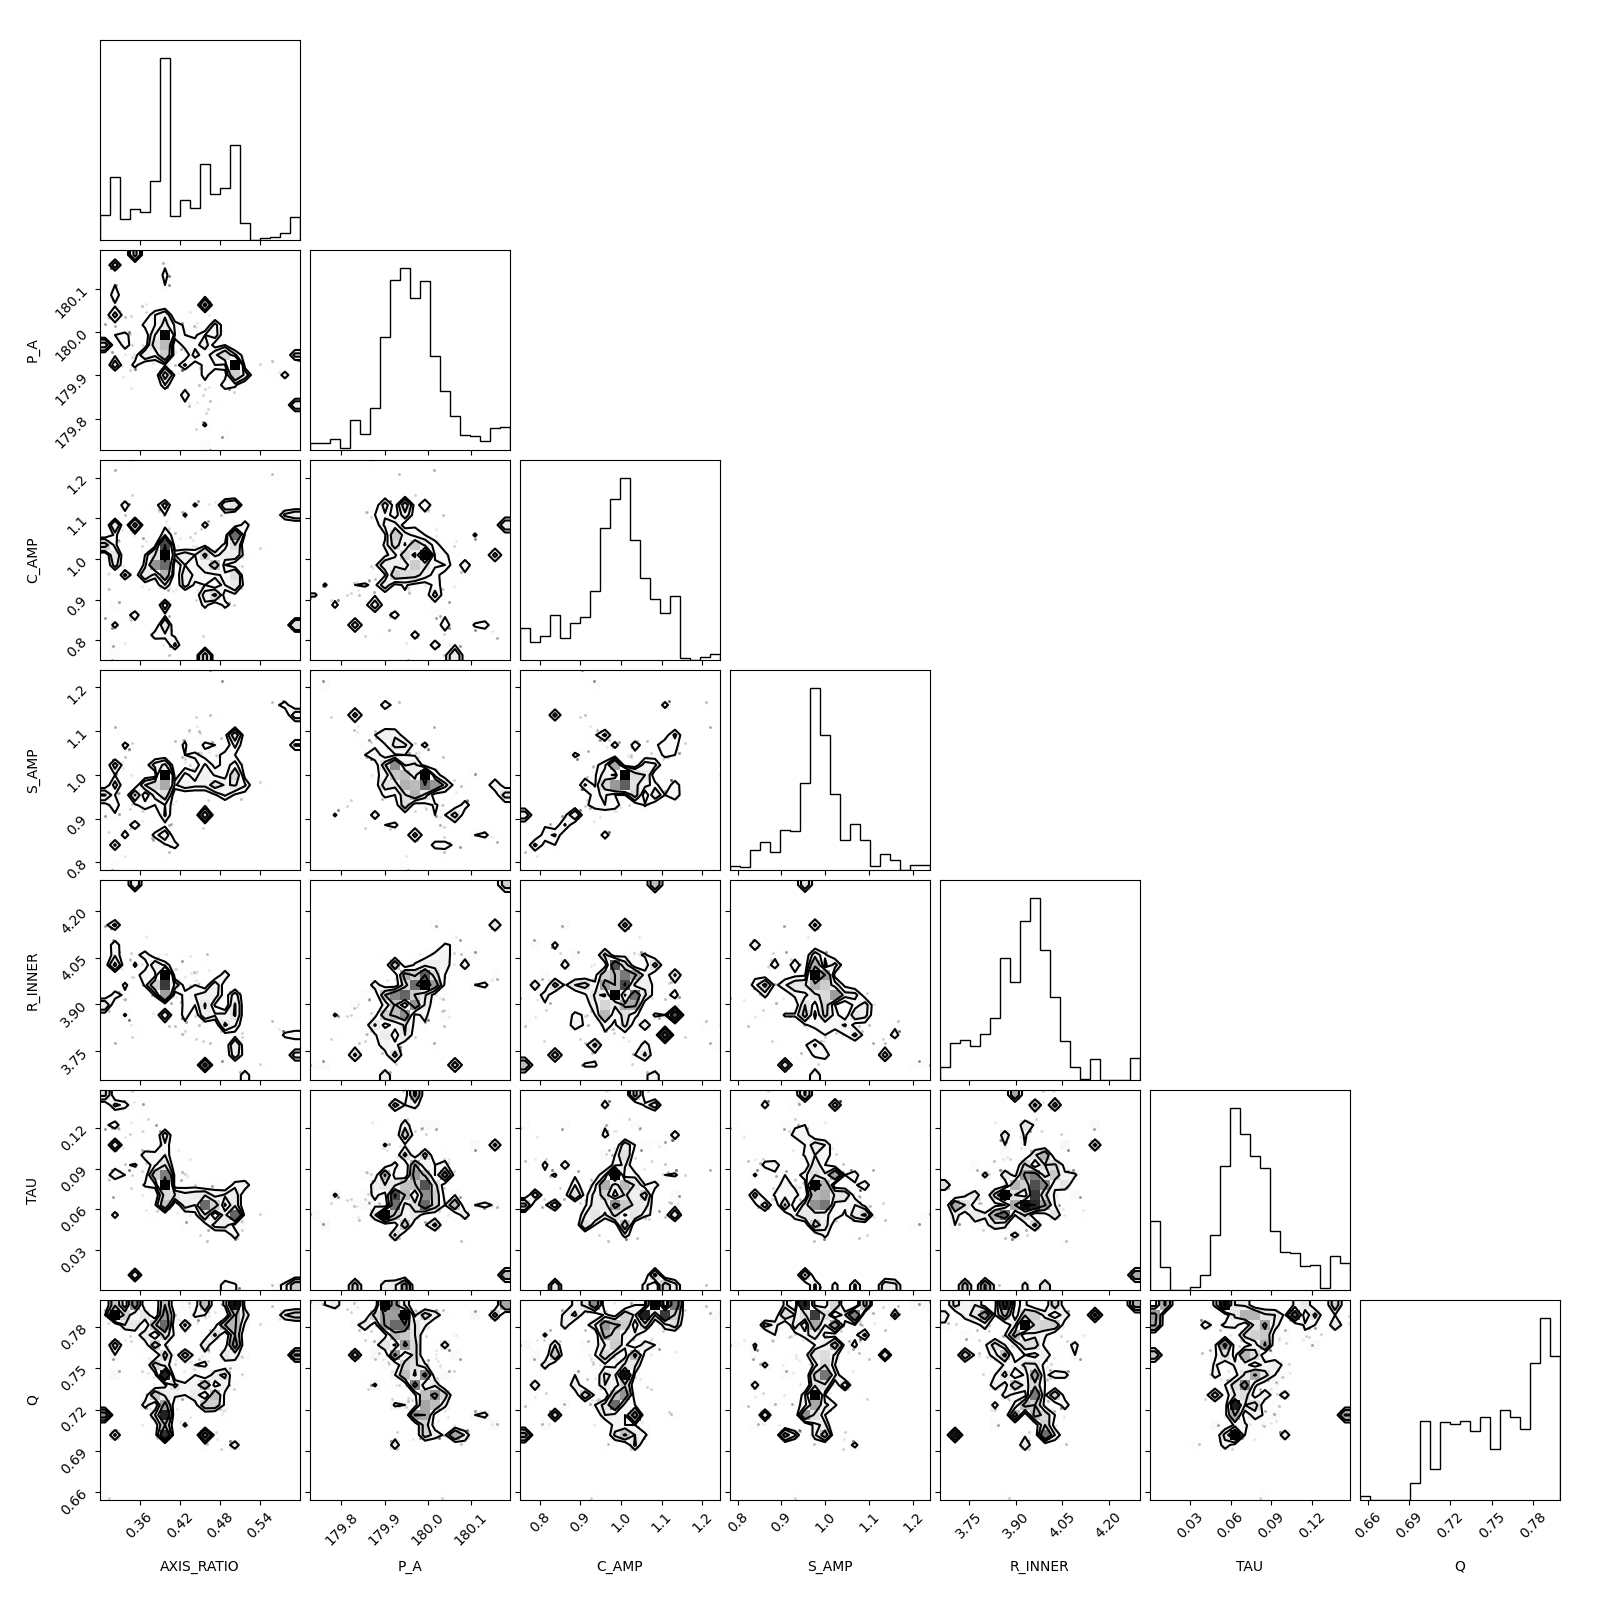
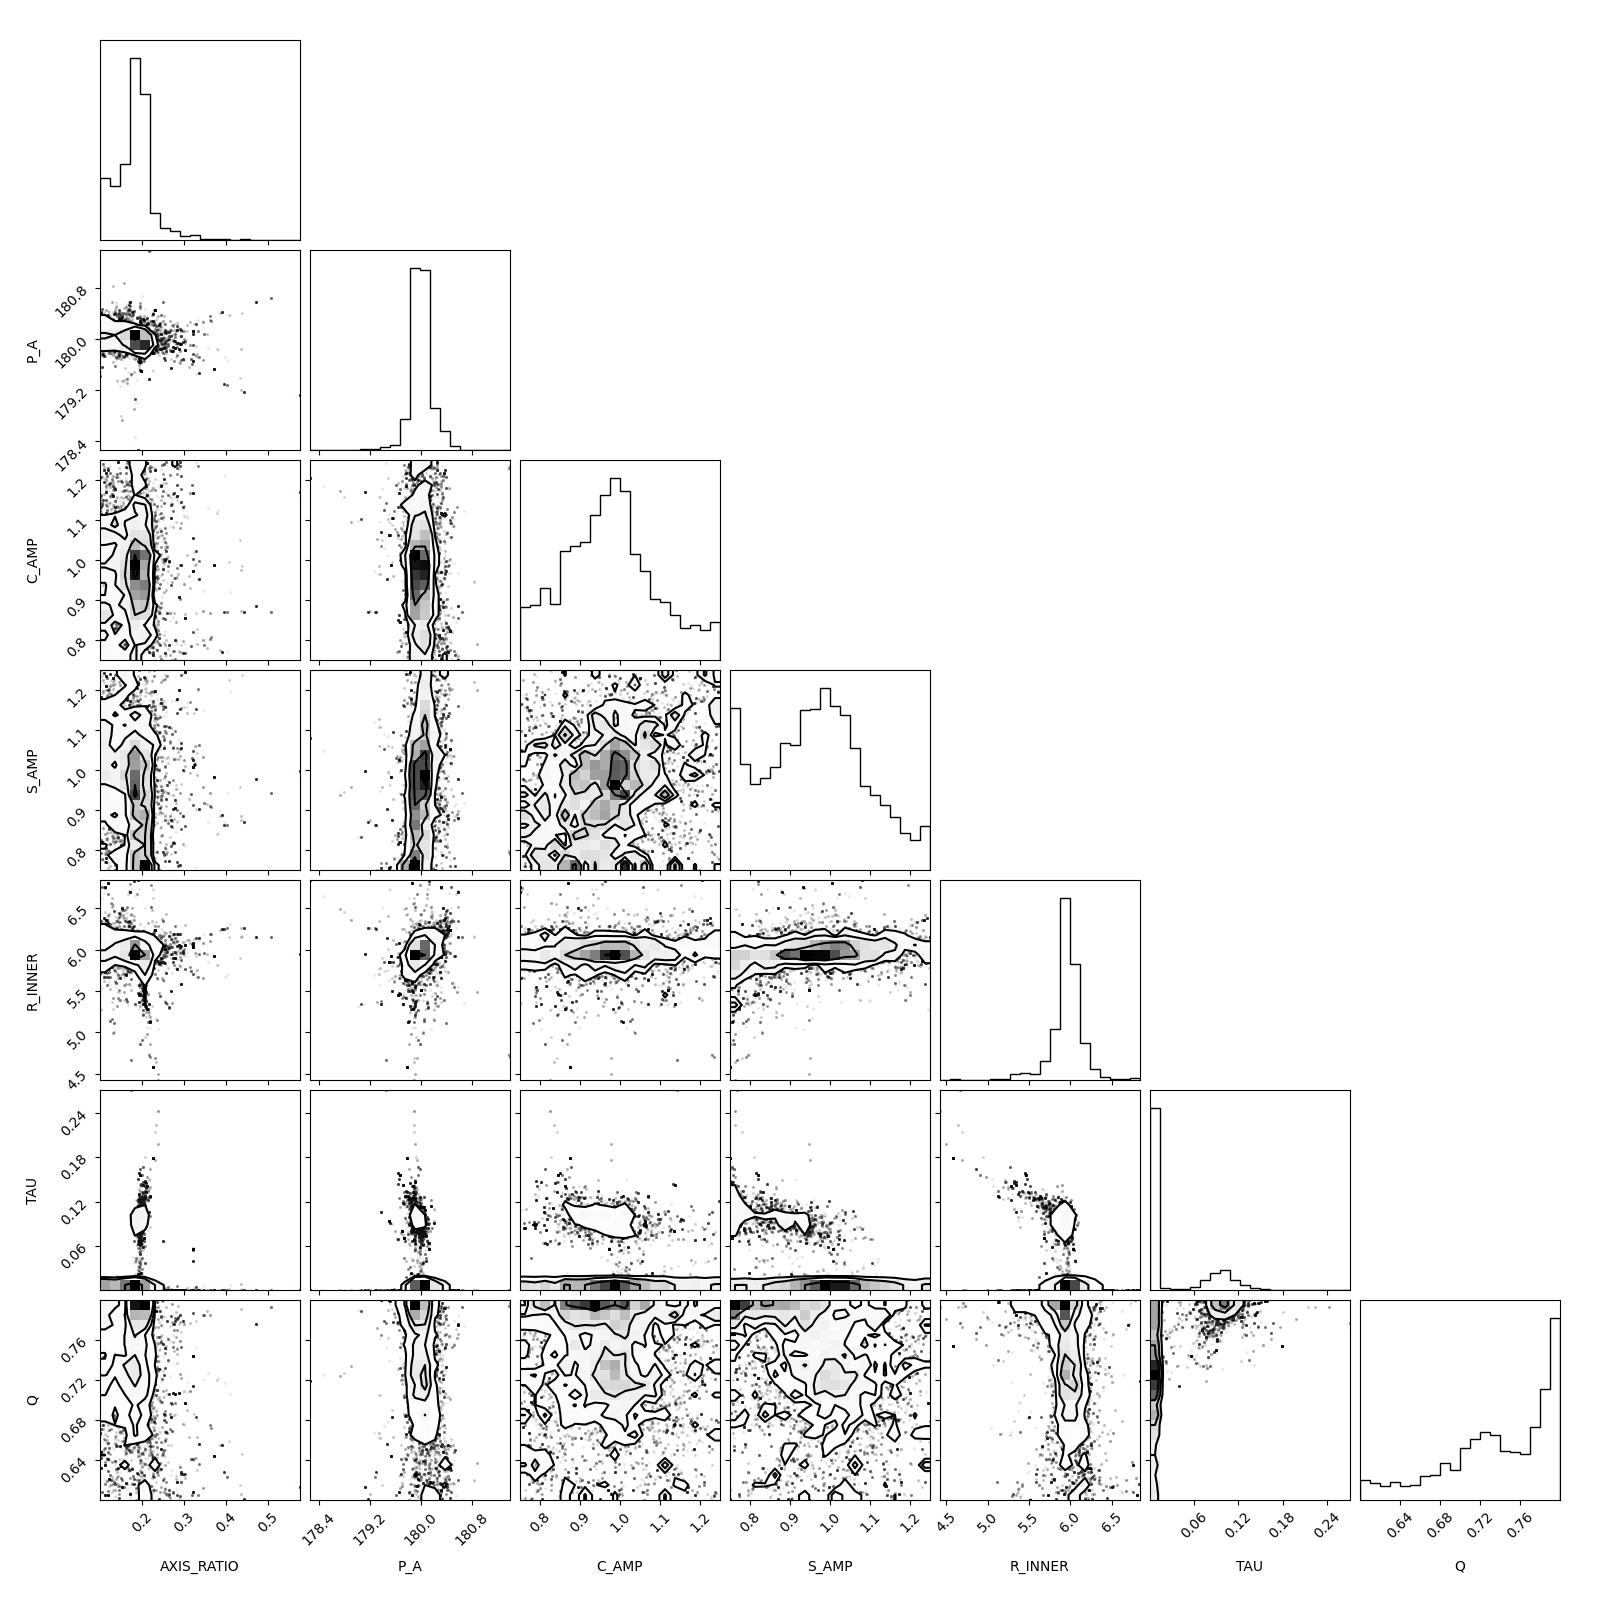
New fit

diff --git a/ppdmodler/src/functionality/mcmc.py b/ppdmodler/src/functionality/mcmc.py
@@ -443,8 +443,8 @@ if __name__ == "__main__":
     # TODO: make the code work for the compound model make the compound model
     # work
     # Initial sets the theta
-    initial = np.array([0.4, 180, 1., 1., 4.,  0.1, 0.7])
-    priors = [[0.3, 0.6], [178, 182], [0.75, 1.25], [0.75, 1.25], [3., 6.], [0., 1.], [0.6, 0.8]]
+    initial = np.array([0.2, 180, 1., 1., 6.,  0.05, 0.7])
+    priors = [[0.1, 1.], [0, 360], [0.75, 1.25], [0.75, 1.25], [3., 10.], [0., 1.], [0.6, 0.8]]
     labels = ["AXIS_RATIO", "P_A", "C_AMP", "S_AMP", "R_INNER", "TAU", "Q"]
     bb_params = [1500, 7900, 19, 140]
 
@@ -455,11 +455,11 @@ if __name__ == "__main__":
 
     # Set the data, the wavelength has to be the fourth argument [3]
     data = set_data(fits_file=f, flux_file=flux_file, pixel_size=100,
-                    sampling=129, wl_ind=45, zero_padding_order=3)
+                    sampling=129, wl_ind=100, zero_padding_order=3)
 
     # Set the mcmc parameters and the data to be fitted.
-    mc_params = set_mc_params(initial=initial, nwalkers=50, niter_burn=20,
-                              niter=20)
+    mc_params = set_mc_params(initial=initial, nwalkers=250, niter_burn=50,
+                              niter=100)
 
     # This calls the MCMC fitting
     mcmc = MCMC(CompoundModel, data, mc_params, priors, labels, numerical=True,
